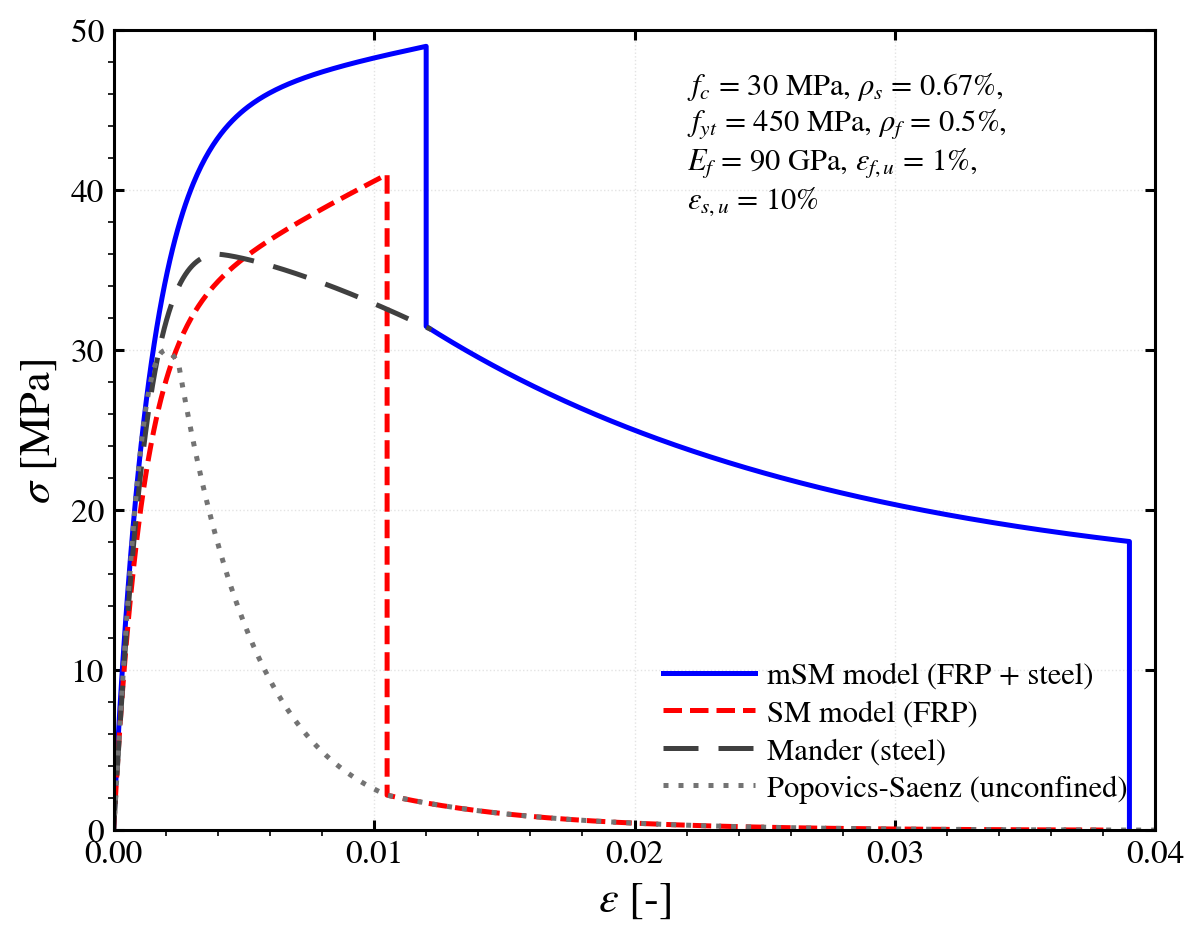
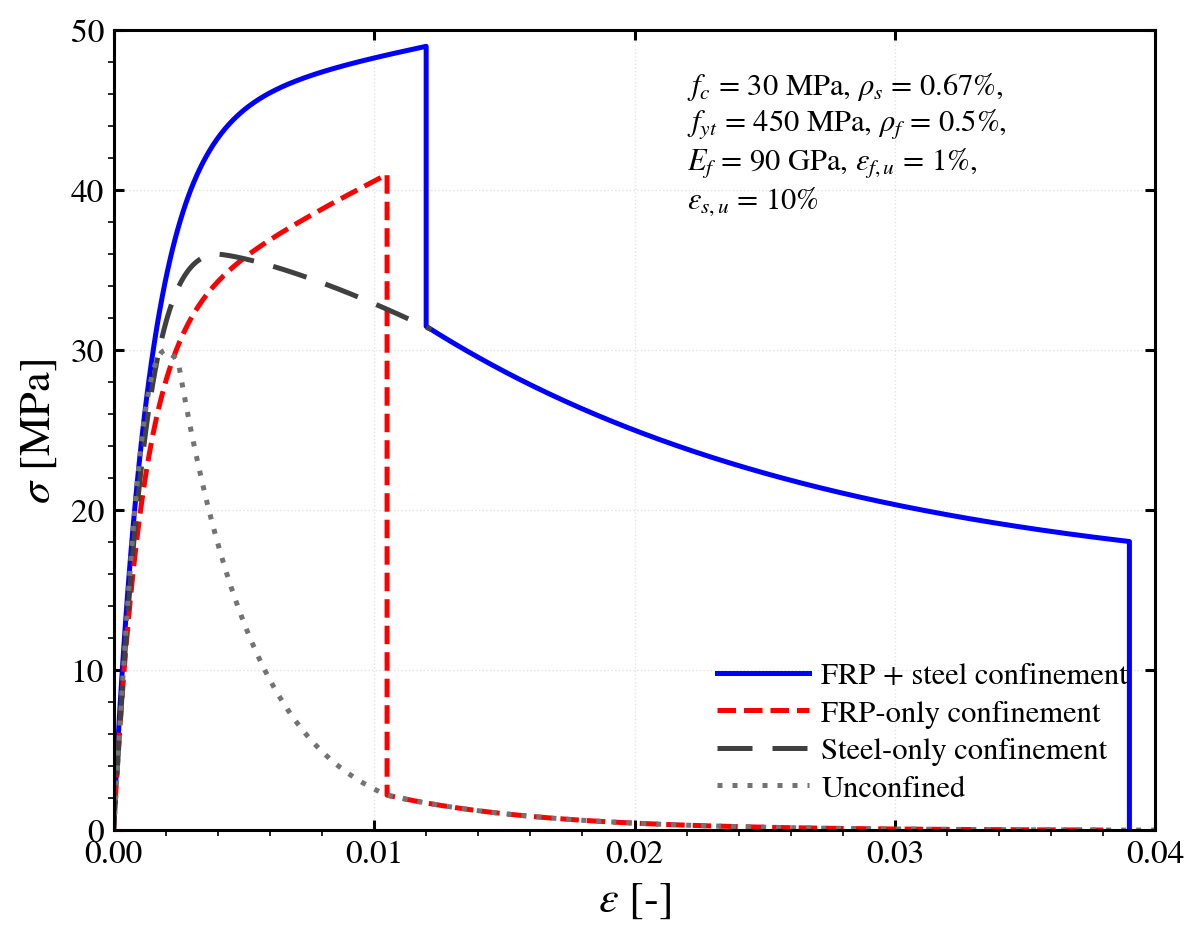
Update ConcreteZBH documentation, example figures, developers, and references

Changed region(s): [[0.5839, 0.7096, 0.9527, 0.8638], [0.5532, 0.7096, 0.5839, 0.8021]]

diff --git a/source/user/manual/material/uniaxialMaterials/ConcreteZBH.rst b/source/user/manual/material/uniaxialMaterials/ConcreteZBH.rst
@@ -45,6 +45,13 @@ a nonlinear compression envelope, and tension cut-off behavior.
    :width: 550
 
    Stress-strain behavior of the material.
+   Monotonic envelope of the stress-strain behavior.
+
+.. figure:: figures/ConcreteZBH/cyclic_stress_strain.png
+   :align: center
+   :width: 550
+
+   Cyclic stress-strain behavior for FRP + steel confinement.
 
 .. admonition:: Example
 
@@ -73,13 +80,169 @@ a nonlinear compression envelope, and tension cut-off behavior.
       set type_reinf  2.0
       uniaxialMaterial ConcreteZBH_smoothed $matTag $fc0 $ec0 $Ec $Es $fy $eults $s $As_t $Ef $eultf $tf $D $Ds $As_l $kg_f $ks_s $ks_f $type_reinf
 
+Structural Column Example (DB450-C)
+"""""""""""""""""""""""""""""""""""
+.. rubric:: Structural Column Example (DB450-C)
+
+.. raw:: html
+
+   <details>
+   <summary><b>Click to expand OpenSees structural example code</b></summary>
+
+.. code-block:: tcl
+
+   # DB450-C concentric axial-compression model (N, mm, MPa)
+   # Specimen DB450-C (Parretti and Nanni 2002; Zignago et al. 2018)
+
+   wipe
+
+   # Confinement case: "mSM" (combined FRP + steel confinement) or "SM" (FRP only)
+   set confinementCase "mSM"
+
+   model BasicBuilder -ndm 2 -ndf 3
+
+   # Geometry and concrete properties
+   set D 200.0
+   set H 914.0
+   set fc0 -25.5
+   set epsc0 -0.0020;                 # Strain at peak unconfined compressive strength
+   set Ec [expr 5000.0*sqrt(abs($fc0))]
+
+   # Longitudinal steel reinforcement (8 #10 bars)
+   set nBars 8
+   set dBar 10.0
+   set fyLong 393.0
+   set EsLong 200000.0
+   set bLong 0.005;                   # Monotonic Steel02 hardening ratio
+
+   # Transverse steel reinforcement (spiral)
+   set dSpiral 6.0
+   set spiralPitch 50.0
+   set fySpiral 517.0
+   set EsSpiral 200000.0
+   set epsSu 0.10
+
+   # Cover and core dimensions
+   set cover 20.0
+   set Dcore [expr $D-2.0*$cover]
+
+   set pi [expr acos(-1.0)]
+   set AsBar [expr $pi*$dBar*$dBar/4.0]
+   set AsLong [expr $nBars*$AsBar]
+   set AsSpiral [expr $pi*$dSpiral*$dSpiral/4.0]
+
+   # FRP jacket properties
+   set tFRP 0.270
+   set EFRP 125600.0
+   set epsFRPcoupon 0.019
+   set xiFRP 0.45
+   set epsFRPeffective [expr $xiFRP*$epsFRPcoupon]
+
+   set matCore 1
+   set matCover 2
+   set matSteel 3
+
+   if {$confinementCase eq "mSM"} {
+       set coreSpiralFy $fySpiral
+       set coreAsLong $AsLong
+   } else {
+       # SM case: FRP-only concrete; longitudinal bars remain explicit
+       set coreSpiralFy 0.0
+       set coreAsLong 0.0
+   }
+
+   # Uniaxial materials: ConcreteZBH for core and cover concrete
+   # Arguments: tag fc0 epsc0 Ec Es fy epsSu pitch As_t Ef epsFRP tf D Dcore As_long kg_f ks_s ks_f type_reinf
+   uniaxialMaterial ConcreteZBH_original $matCore $fc0 $epsc0 $Ec $EsSpiral $coreSpiralFy $epsSu $spiralPitch $AsSpiral $EFRP $epsFRPeffective $tFRP $D $Dcore $coreAsLong 1.0 1.0 1.0 1.0
+
+   uniaxialMaterial ConcreteZBH_original $matCover $fc0 $epsc0 $Ec $EsSpiral 0.0 $epsSu $spiralPitch $AsSpiral $EFRP $epsFRPeffective $tFRP $D $Dcore 0.0 1.0 1.0 1.0 1.0
+
+   uniaxialMaterial Steel02 $matSteel $fyLong $EsLong $bLong 20.0 0.925 0.15
+
+   # Section discretization (Fiber section)
+   set R [expr $D/2.0]
+   set Rcore [expr $Dcore/2.0]
+   set Rbar [expr $R-$cover-$dBar/2.0]
+
+   section Fiber 1 {
+       patch circ $matCore 20 16 0.0 0.0 0.0 $Rcore 0.0 360.0
+       patch circ $matCover 20 4 0.0 0.0 $Rcore $R 0.0 360.0
+       layer circ $matSteel $nBars $AsBar 0.0 0.0 $Rbar 0.0 315.0
+   }
+
+   # Nodes and boundary conditions
+   node 1 0.0 0.0
+   node 2 0.0 $H
+   fix 1 1 1 1
+   fix 2 1 0 1
+
+   # Coordinate transformation and element definition
+   geomTransf Linear 1
+   element forceBeamColumn 1 1 2 1 Lobatto 1 5
+
+   # Recorders
+   recorder Node -file displacement.out -node 2 -dof 2 disp
+   recorder Node -file reaction.out -node 1 -dof 2 reaction
+   recorder Element -file core_fiber.out -ele 1 section 3 fiber 0.0 0.0 $matCore stressStrain
+   recorder Element -file cover_fiber.out -ele 1 section 3 fiber 0.0 [expr 0.5*($Rcore+$R)] $matCover stressStrain
+
+   # Loading and analysis definition
+   timeSeries Linear 1
+   pattern Plain 1 1 {load 2 0.0 -1.0 0.0}
+
+   constraints Plain
+   numberer Plain
+   system BandGeneral
+   test NormDispIncr 1.0e-8 50 0
+   algorithm Newton
+   set dU -0.002
+   integrator DisplacementControl 2 2 $dU
+   analysis Static
+
+   # Displacement-controlled execution
+   set targetDisp [expr -0.020*$H]
+   set ok 0
+   set steps 0
+   while {[nodeDisp 2 2] > $targetDisp && $ok == 0} {
+       set ok [analyze 1]
+       if {$ok == 0} {incr steps}
+   }
+
+   puts "DB450-C ($confinementCase): return=$ok accepted_steps=$steps final_disp=[nodeDisp 2 2] mm"
+   wipe
+
+.. raw:: html
+
+   </details>
+   <br>
+
+.. figure:: figures/ConcreteZBH/DB450C_structural_model.png
+   :align: center
+   :width: 600
+
+   Description of the structural model and fiber-discretized section.
+
+.. figure:: figures/ConcreteZBH/DB450C_fiber_response.png
+   :align: center
+   :width: 550
+
+   Stress-strain response of the core and cover concrete fibers.
+
+.. figure:: figures/ConcreteZBH/DB450C_axial_response.png
+   :align: center
+   :width: 550
+
+   Global axial force-displacement response of the column.
+
 .. note::
 
    **Credits & Contact**
 
    **Developers:**
+   Shingini Lahiri (Student, Civil Engineering, IIT Madras)
    Prakash Singh Badal (Faculty, Civil Engineering, IIT Madras)
    Shingini Lahiri (Student, Civil Engineering, IIT Madras)
+   Michele Barbato (Faculty, Civil & Environmental Engineering, UC Davis)
 
    **Contact:**
    Prof. Michele Barbato
@@ -91,3 +254,4 @@ a nonlinear compression envelope, and tension cut-off behavior.
 * Zignago, D., Barbato, M., and Hu, D. (2018). "Constitutive Model of Concrete Simultaneously Confined by FRP and Steel for Finite-Element Analysis of FRP-Confined RC Columns." *Journal of Structural Engineering*, 144(10), 04018178. `https://doi.org/10.1061/(ASCE)ST.1943-541X.0002166 <https://doi.org/10.1061/(ASCE)ST.1943-541X.0002166>`_
 
 * "New Analytical Analysis-Oriented Stress-Strain Model for FRP-and-Steel Confined Concrete." `https://doi.org/10.1061/JSENDH.STENG-11634 <https://doi.org/10.1061/JSENDH.STENG-11634>`_
+* Zignago, D., and Barbato, M. (2023). "New Analytical Analysis-Oriented Stress-Strain Model for FRP-and-Steel Confined Concrete." *Journal of Structural Engineering*, 149(1), 04022212. `https://doi.org/10.1061/JSENDH.STENG-11634 <https://doi.org/10.1061/JSENDH.STENG-11634>`_ (Note: This paper contains both the smoothed and fitted models.)
